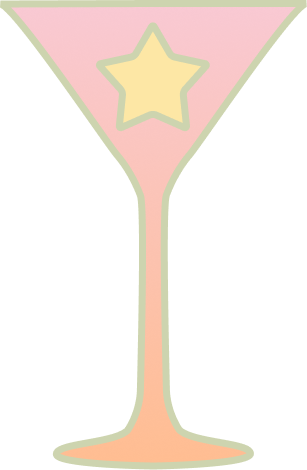
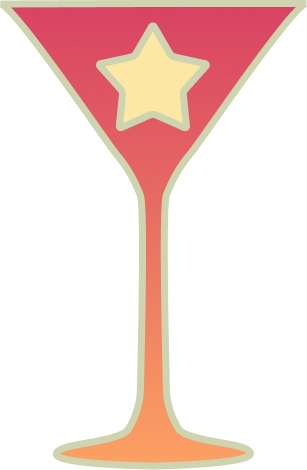
export recipes

Changed region(s): [[0.0293, 0.0, 0.9674, 0.983]]

diff --git a/thedailyinfusion/common.js b/thedailyinfusion/common.js
@@ -74,3 +74,20 @@ document.addEventListener('DOMContentLoaded', () => {
 
   State.updateShoppingBadge();
 });
+
+// EXPORT ALL RECIPES (DEFAULT + USER CUSTOM) TO A UPDATED recipes.js FILE
+function exportRecipesJS() {
+  const allRecipes = typeof getCombinedRecipes === 'function' ? getCombinedRecipes() : ALL_RECIPES;
+  
+  const fileContent = `const ALL_RECIPES = ${JSON.stringify(allRecipes, null, 2)};\n\n// HELPER TO FETCH BOTH BUILT-IN & USER-ADDED RECIPES\nfunction getCombinedRecipes() {\n  const customRecipes = JSON.parse(localStorage.getItem('cozy_custom_recipes') || '[]');\n  return [...ALL_RECIPES, ...customRecipes];\n}`;
+
+  const blob = new Blob([fileContent], { type: 'text/javascript' });
+  const url = URL.createObjectURL(blob);
+  const a = document.createElement('a');
+  a.href = url;
+  a.download = 'recipes.js';
+  document.body.appendChild(a);
+  a.click();
+  document.body.removeChild(a);
+  URL.revokeObjectURL(url);
+}

diff --git a/thedailyinfusion/recipes.html b/thedailyinfusion/recipes.html
@@ -37,6 +37,15 @@
       <button onclick="resetAllFilters()" class="text-xs font-semibold text-cozy-olivegreen bg-cozy-olivegreen/10 px-4 py-2 rounded-full hover:bg-cozy-olivegreen hover:text-white transition">
         ↺ Reset All Filters
       </button>
+      <div class="flex items-center gap-2">
+  <button onclick="exportRecipesJS()" class="text-xs font-semibold text-cozy-text bg-white border border-cozy-border px-4 py-2 rounded-full hover:border-cozy-olivegreen transition flex items-center gap-1.5 shadow-sm">
+    <span>💾</span> Download Updated recipes.js
+  </button>
+
+  <button onclick="resetAllFilters()" class="text-xs font-semibold text-cozy-olivegreen bg-cozy-olivegreen/10 px-4 py-2 rounded-full hover:bg-cozy-olivegreen hover:text-white transition">
+    ↺ Reset All Filters
+  </button>
+</div>
     </div>
 
     <!-- MAIN TWO-COLUMN LAYOUT -->
